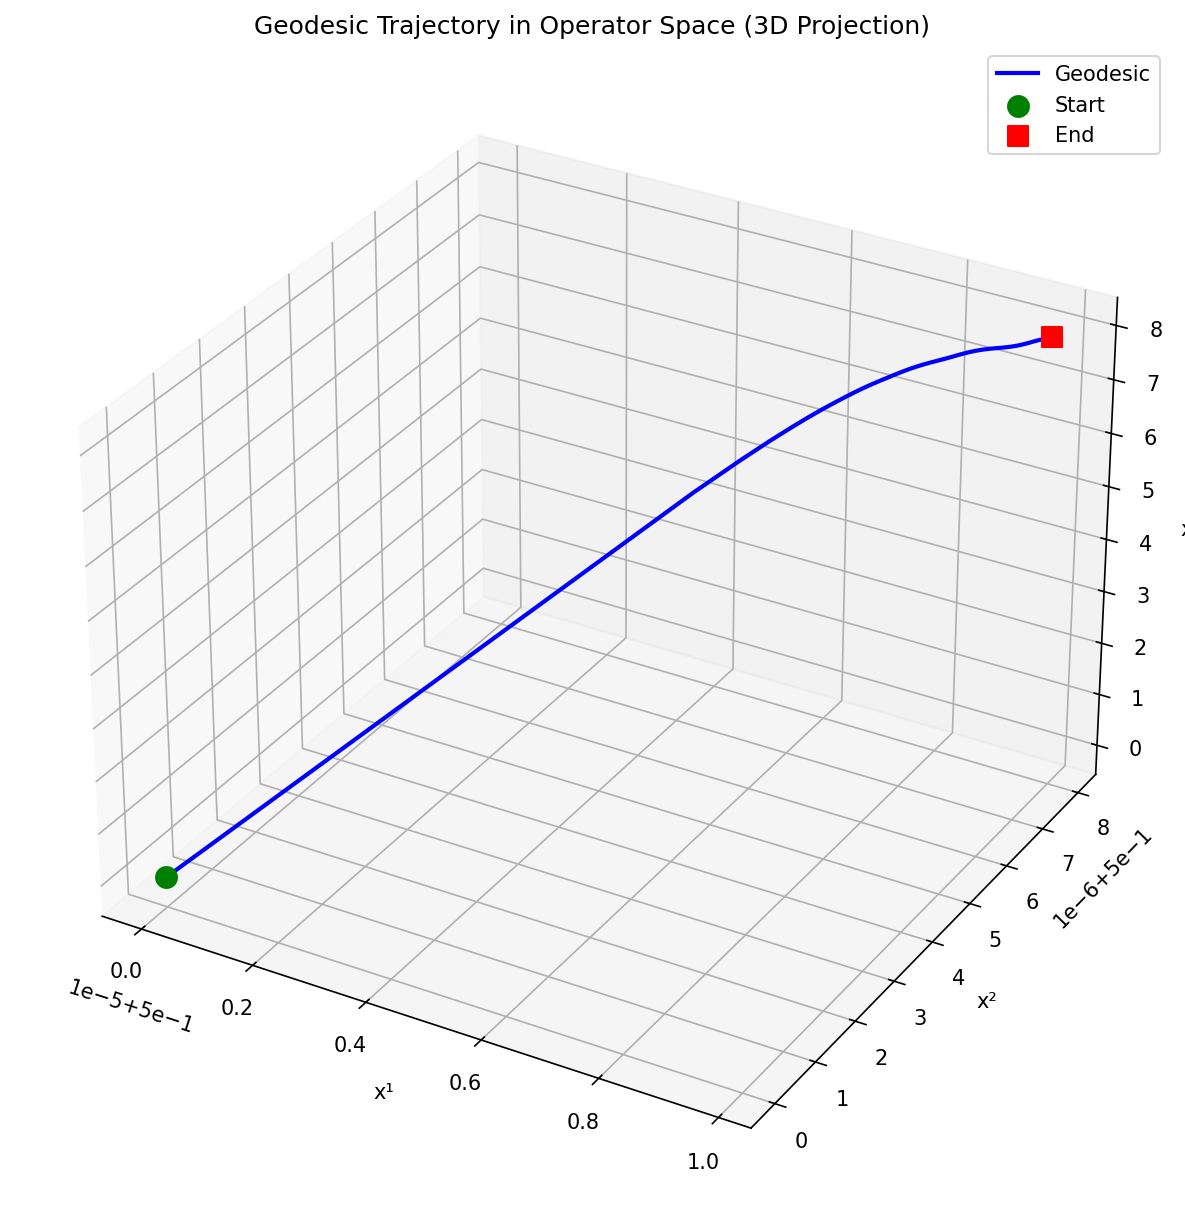
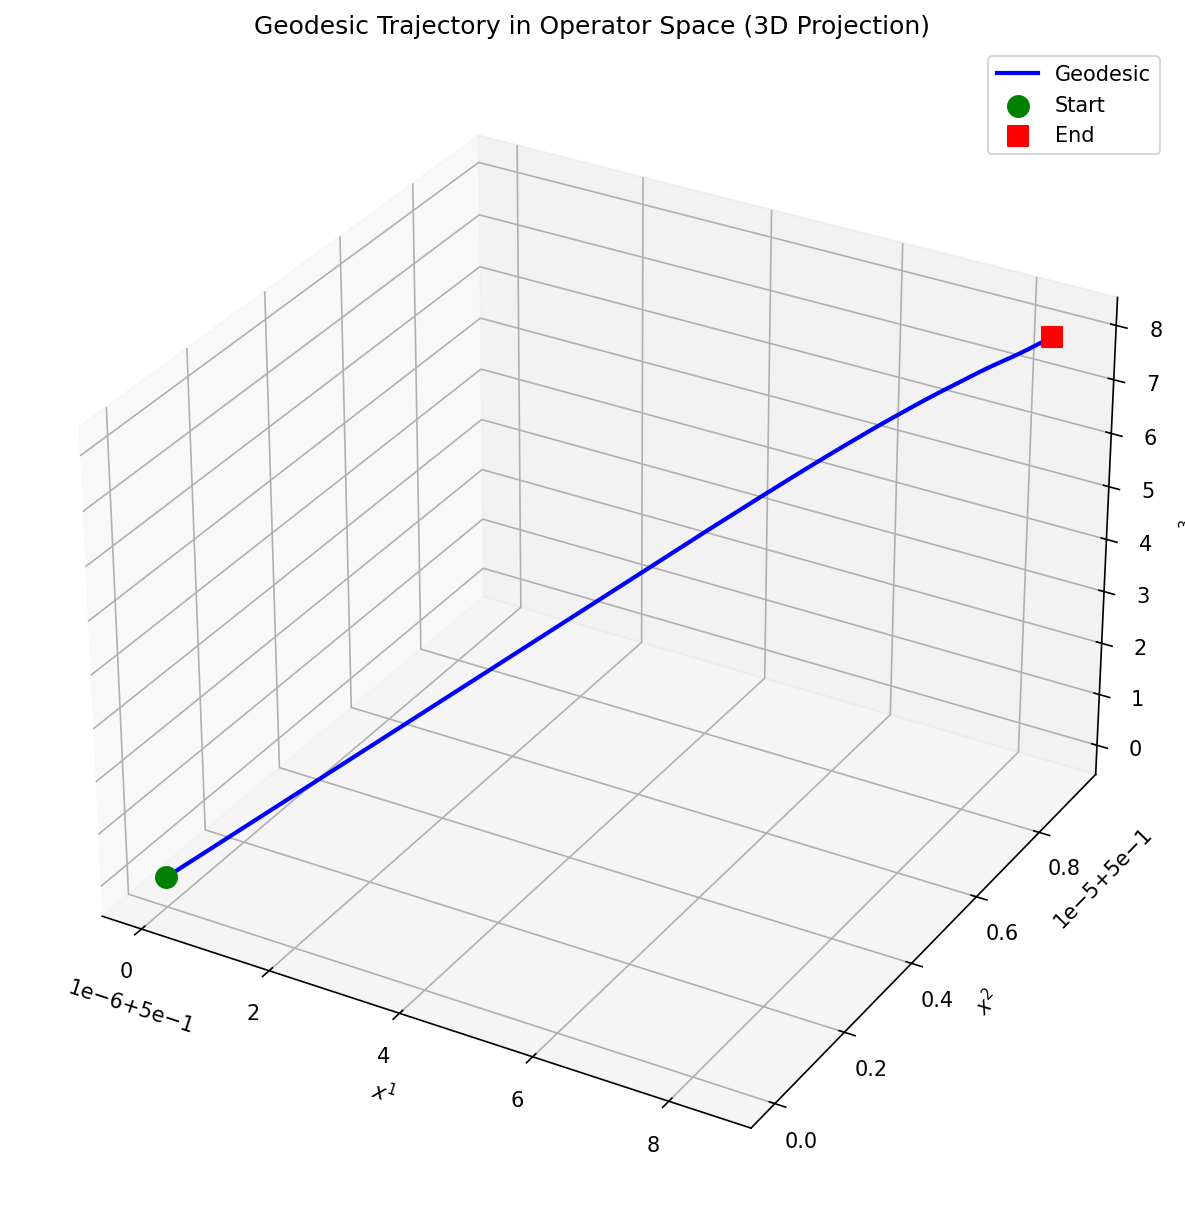
Address code review feedback: fix imports, improve test robustness, and enhance matplotlib labels

diff --git a/quantum_gravity/jones_quantum_gravity.py b/quantum_gravity/jones_quantum_gravity.py
@@ -24,15 +24,11 @@ from typing import Dict, List, Tuple, Optional, Callable
 import logging
 from dataclasses import dataclass
 from scipy.linalg import logm, expm, eigh
-from scipy.integrate import solve_ivp, cumulative_trapezoid
+from scipy.integrate import solve_ivp, cumulative_trapezoid, trapezoid
 import matplotlib.pyplot as plt
 from mpl_toolkits.mplot3d import Axes3D
 
 logger = logging.getLogger("SphinxOS.JonesQuantumGravity")
-
-# Physical constants
-HBAR = 1.0545718e-34  # Reduced Planck constant (J·s)
-K_B = 1.380649e-23    # Boltzmann constant (J/K)
 
 
 @dataclass
@@ -542,8 +538,7 @@ class DeterministicPageCurve:
         x_vals = np.linspace(0, x, 100)
         K_vals = np.array([self.modular_density(xi) for xi in x_vals])
         
-        # Trapezoidal integration (use scipy.integrate.trapezoid for newer numpy)
-        from scipy.integrate import trapezoid
+        # Trapezoidal integration
         S = trapezoid(K_vals, x_vals)
         return S
     
@@ -1074,9 +1069,9 @@ class JonesQuantumGravityResolution:
             ax.scatter(traj[0, 0], traj[0, 1], traj[0, 2], c='g', s=100, marker='o', label='Start')
             ax.scatter(traj[-1, 0], traj[-1, 1], traj[-1, 2], c='r', s=100, marker='s', label='End')
             
-            ax.set_xlabel('x¹')
-            ax.set_ylabel('x²')
-            ax.set_zlabel('x³')
+            ax.set_xlabel(r'$x^1$')
+            ax.set_ylabel(r'$x^2$')
+            ax.set_zlabel(r'$x^3$')
             ax.set_title('Geodesic Trajectory in Operator Space (3D Projection)')
             ax.legend()
             

diff --git a/tests/test_jones_quantum_gravity.py b/tests/test_jones_quantum_gravity.py
@@ -146,7 +146,7 @@ class TestModularHamiltonian:
         assert len(spectrum.eigenvalues) == 27
         assert spectrum.eigenvalues.shape == (27,)
         assert spectrum.eigenvectors.shape == (27, 27)
-        assert spectrum.kappa == spectrum.eigenvalues.min()
+        assert np.isclose(spectrum.kappa, spectrum.eigenvalues.min())
     
     def test_block_spectral_gaps(self, hamiltonian):
         """Test block spectral gap computation."""
@@ -224,7 +224,7 @@ class TestDeterministicPageCurve:
         bound = page_curve.nuclearity_bound()
         
         assert bound > 0
-        assert bound == np.log(27)  # ln(dim H_R)
+        assert np.isclose(bound, np.log(27))  # ln(dim H_R)
     
     def test_verify_nuclearity(self, page_curve):
         """Test nuclearity verification."""
